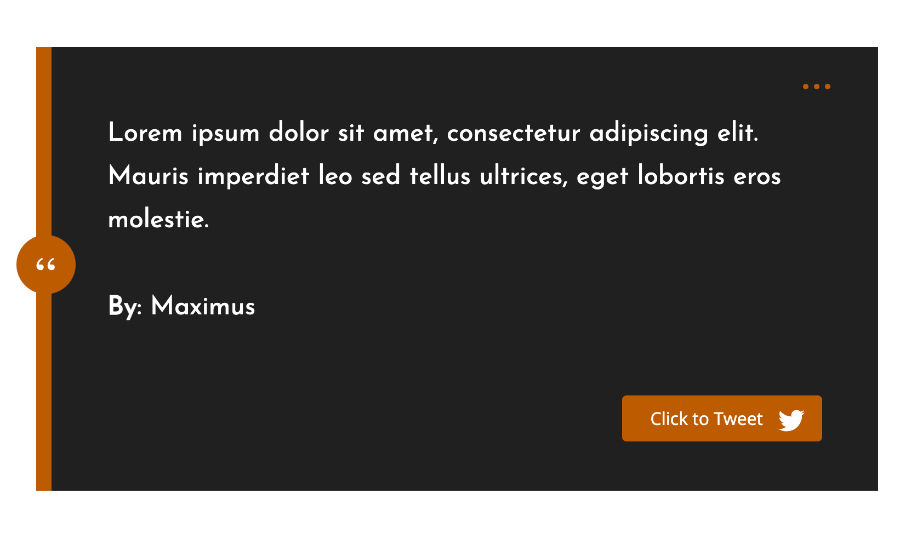
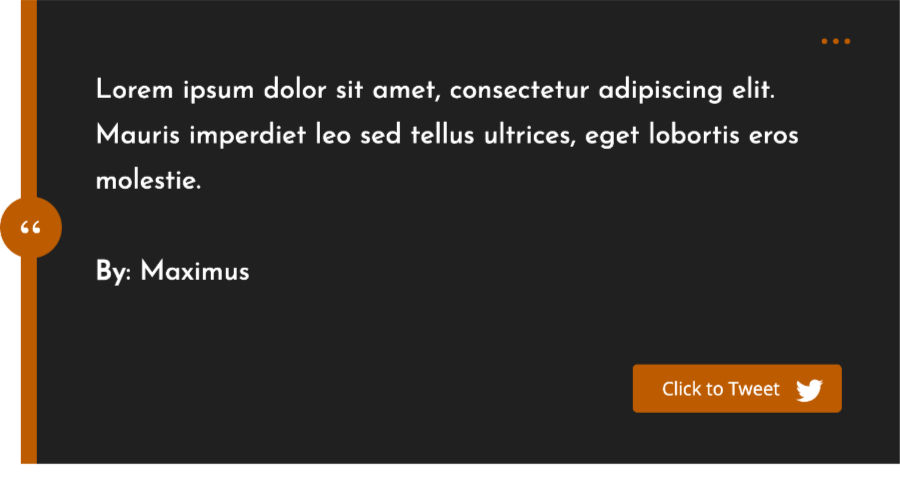
Tweaking image sizes.

diff --git a/php/Themes/Themes_Blue.php b/php/Themes/Themes_Blue.php
@@ -96,14 +96,14 @@ class Themes_Blue extends Themes_Addon {
 	 *
 	 * @var int $full_width Image width of full-size image.
 	 */
-	protected static $full_width = 866;
+	protected static $full_width = 900;
 
 	/**
 	 * Large Image height. Used for previews.
 	 *
 	 * @var int $full_height Image height of full-size image.
 	 */
-	protected static $full_height = 487;
+	protected static $full_height = 500;
 
 	/**
 	 * Returns an instance of this class, and stores it in the $instance property.

diff --git a/php/Themes/Themes_Light_Branded.php b/php/Themes/Themes_Light_Branded.php
@@ -75,14 +75,14 @@ class Themes_Light_Branded extends Themes_Addon {
 	 *
 	 * @var int $full_width Image width of full-size image.
 	 */
-	protected static $full_width = 750;
+	protected static $full_width = 900;
 
 	/**
 	 * Large Image height. Used for previews.
 	 *
 	 * @var int $full_height Image height of full-size image.
 	 */
-	protected static $full_height = 421;
+	protected static $full_height = 500;
 
 	/**
 	 * Theme color or gradient.

diff --git a/php/Themes/Themes_Bubble_Gum.php b/php/Themes/Themes_Bubble_Gum.php
@@ -75,14 +75,14 @@ class Themes_Bubble_Gum extends Themes_Addon {
 	 *
 	 * @var int $full_width Image width of full-size image.
 	 */
-	protected static $full_width = 1000;
+	protected static $full_width = 900;
 
 	/**
 	 * Large Image height. Used for previews.
 	 *
 	 * @var int $full_height Image height of full-size image.
 	 */
-	protected static $full_height = 668;
+	protected static $full_height = 500;
 
 	/**
 	 * Theme color or gradient.

diff --git a/php/Themes/Themes_Purple.php b/php/Themes/Themes_Purple.php
@@ -82,14 +82,14 @@ class Themes_Purple extends Themes_Addon {
 	 *
 	 * @var int $full_width Image width of full-size image.
 	 */
-	protected static $full_width = 731;
+	protected static $full_width = 900;
 
 	/**
 	 * Large Image height. Used for previews.
 	 *
 	 * @var int $full_height Image height of full-size image.
 	 */
-	protected static $full_height = 412;
+	protected static $full_height = 500;
 
 	/**
 	 * Preview URL image for theme.

diff --git a/php/Themes/Themes_Dark.php b/php/Themes/Themes_Dark.php
@@ -75,14 +75,14 @@ class Themes_Dark extends Themes_Addon {
 	 *
 	 * @var int $full_width Image width of full-size image.
 	 */
-	protected static $full_width = 1555;
+	protected static $full_width = 900;
 
 	/**
 	 * Large Image height. Used for previews.
 	 *
 	 * @var int $full_height Image height of full-size image.
 	 */
-	protected static $full_height = 874;
+	protected static $full_height = 500;
 
 	/**
 	 * Theme color or gradient.
